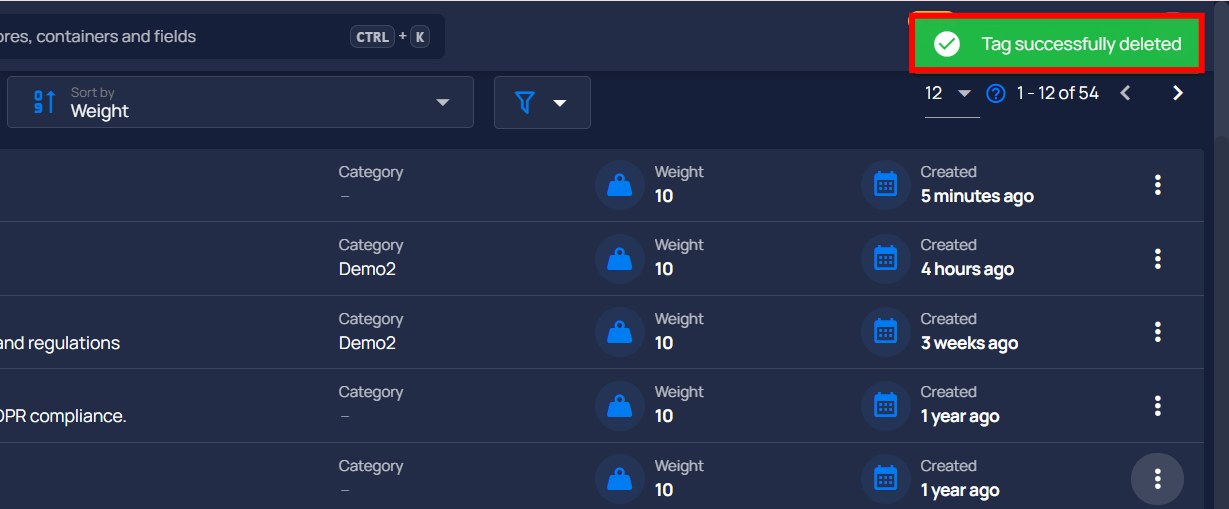
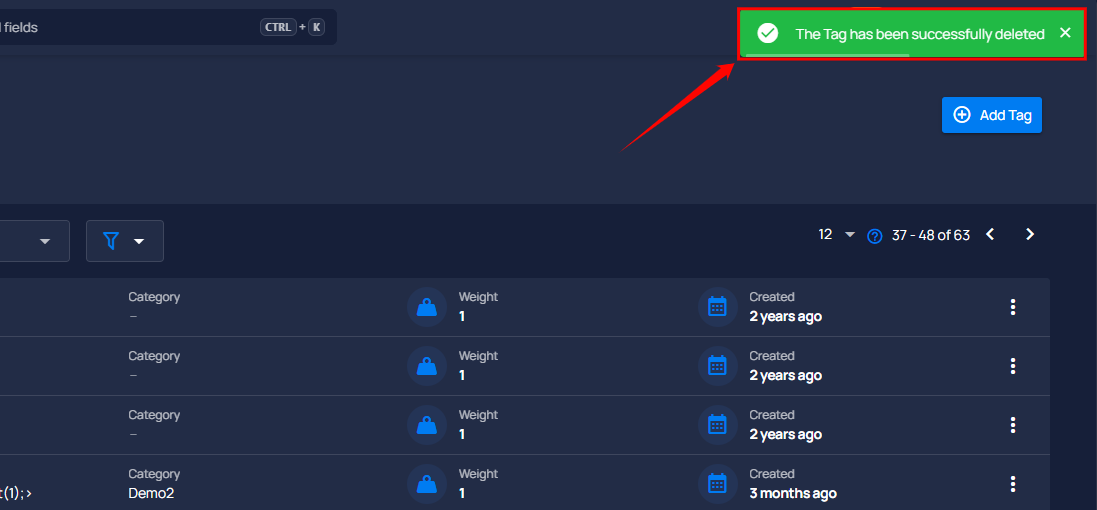
QUA-507: Update "Tags" file.

diff --git a/docs/tags/overview-of-tag.md b/docs/tags/overview-of-tag.md
@@ -44,6 +44,11 @@ You will be navigated to the **Tags** section, where you can view all the tags a
 ![save-tag](../assets/tags/save-tag-light-5.png#only-light)
 ![save-tag](../assets/tags/save-tag-dark-5.png#only-dark)
 
+**Step 4**: After clicking the **Save** button, the tag will be added to the system and a success message will appear saying **Tag successfully created**.
+
+![tag-created](../assets/tags/tag-created-light.png#only-light)
+![tag-created](../assets/tags/tag-created-dark.png#only-dark)
+
 ## View Created Tags
 
 Once you have created a tag, you can view it in the tags list.
@@ -107,6 +112,11 @@ This allows you to keep your tags updated with current information and relevance
 ![save-edit](../assets/tags/save-edit-light-11.png#only-light)
 ![save-edit](../assets/tags/save-edit-dark-11.png#only-dark)
 
+**Step 4**: After clicking the **Save** button, a success message will appear saying **Tag successfully updated**.
+
+![tag-updated](../assets/tags/tag-updated-light.png#only-light)
+![tag-updated](../assets/tags/tag-updated-dark.png#only-dark)
+
 ### Delete Tags
 
 This allows you to remove outdated or unnecessary tags to maintain a clean and efficient tag system.
@@ -116,7 +126,7 @@ This allows you to remove outdated or unnecessary tags to maintain a clean and e
 ![delete](../assets/tags/delete-light-12.png#only-light)
 ![delete](../assets/tags/delete-dark-12.png#only-dark)
 
-**Step 2**: After clicking the **Delete** button, your tag will be removed from the system, and a success message saying **Tag successfully deleted**.
+**Step 2**: After clicking the **Delete** button, your tag will be removed from the system, and a success message will appear saying **The Tag has been successfully deleted**.
 
 ![tag-deleted](../assets/tags/tag-deleted-light-13.png#only-light)
 ![tag-deleted](../assets/tags/tag-deleted-dark-13.png#only-dark)
